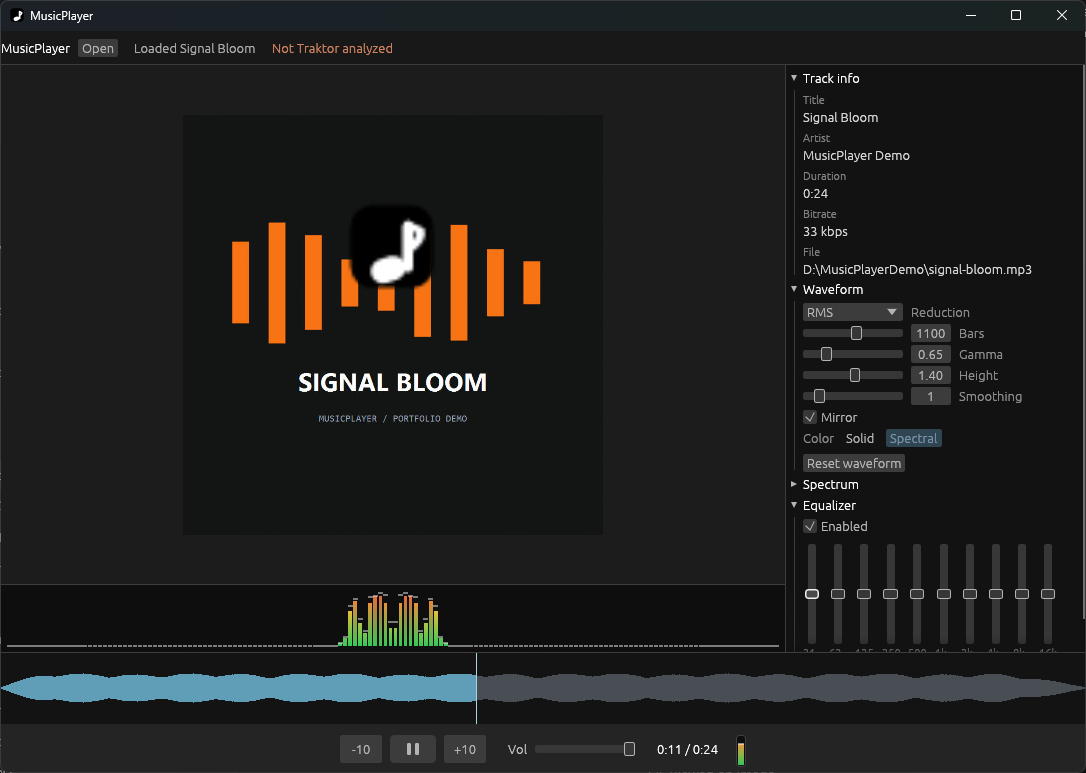
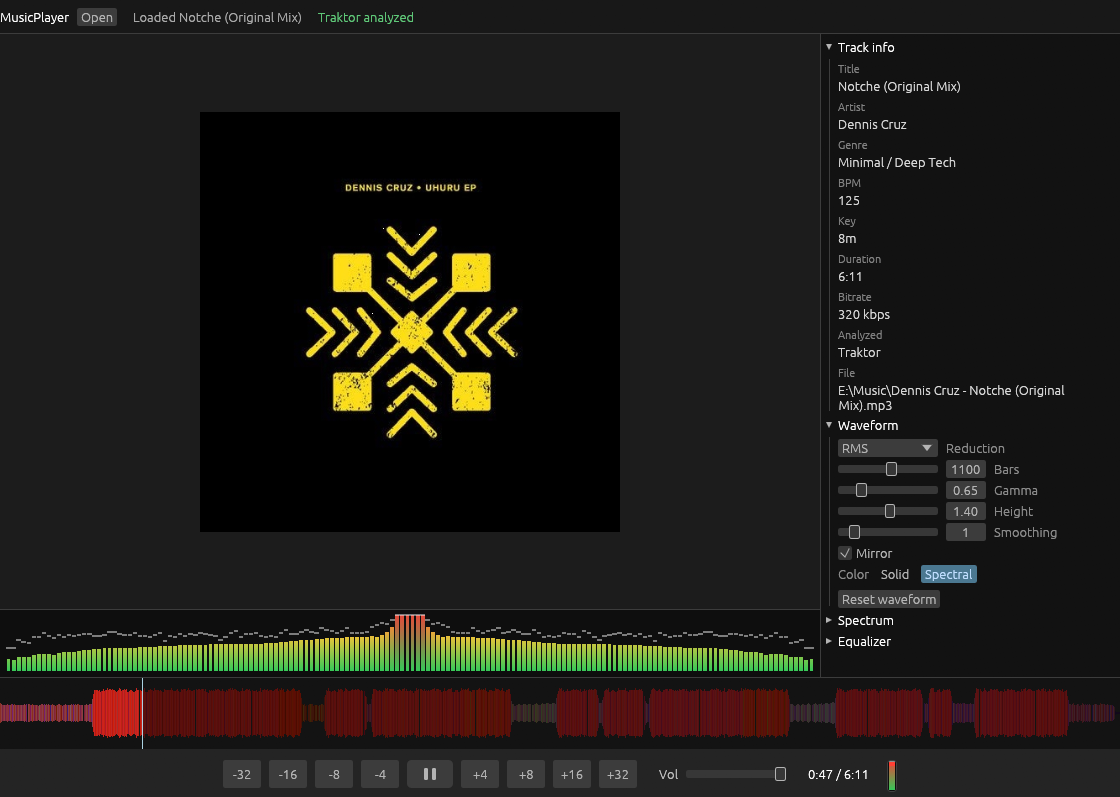
feat: real MusicPlayer screenshot and sharper copy (#3)
Replaces the synthetic "Signal Bloom" demo shot with a capture of the
released v1.0.0 playing an actual Traktor-analyzed track, so the panel now
shows the BPM, key, and spectral waveform the feature is actually about
(the demo track read "Not Traktor analyzed"). Same 1.405 ratio as the old
asset, so the layout is unchanged.

The card and the detail panel carried the identical sentence, opening with
"a responsive desktop player" - web wording that says nothing about a
native app, with the Traktor integration buried behind a format list. Both
rewritten, and the card's is now shorter than the panel's.

Version is now a single constant driving the screenshot path, both download
URLs, the release link, and both labels, instead of being hardcoded in five
places.

diff --git a/src/data/projects.ts b/src/data/projects.ts
@@ -314,7 +314,7 @@ export const projects: Project[] = [
         title: "MusicPlayer",
         category: "Native & Tools",
         subtitle: "Released desktop app",
-        description: "A responsive desktop player for MP3, WAV, FLAC, M4A, and AAC with hands-on waveform controls, spectral feedback, and beat-aware navigation.",
+        description: "A native desktop player for DJs — it picks up Traktor's BPM and key analysis and draws a spectral waveform you can jump through a bar at a time.",
         detail: "music-player",
         accent: "#fb923c",
         icon: "devicon-rust-plain",
